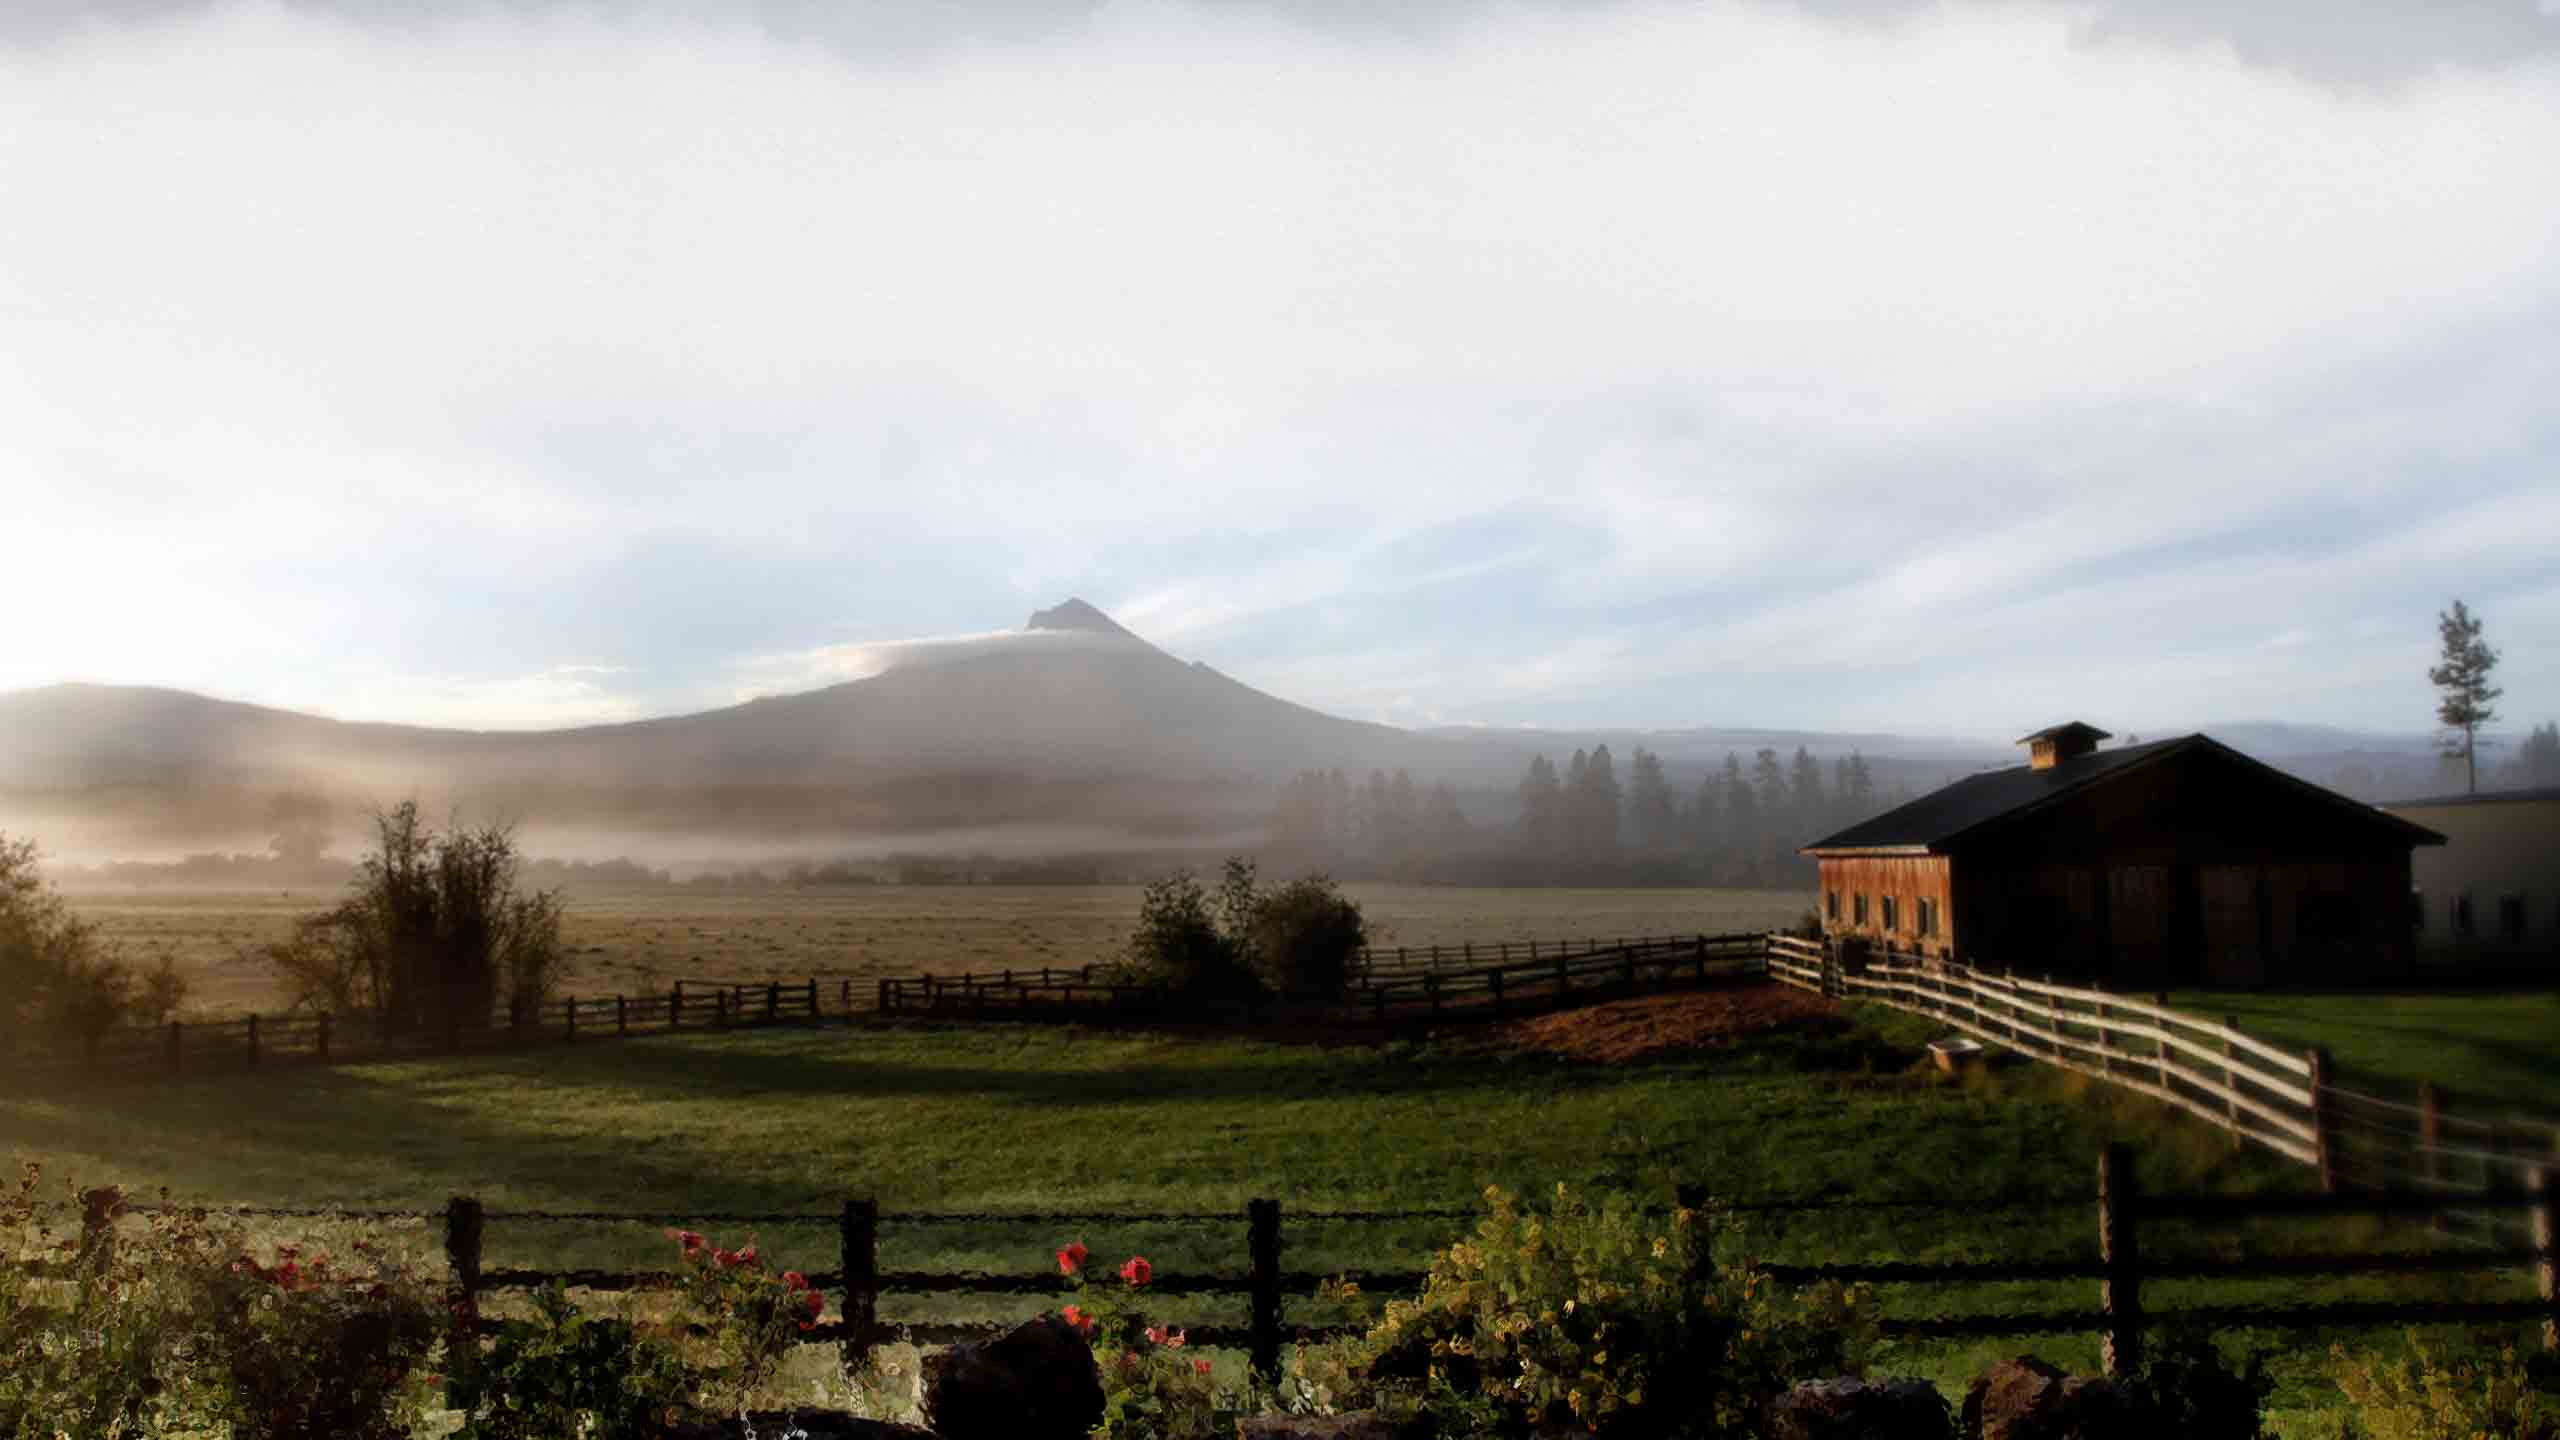
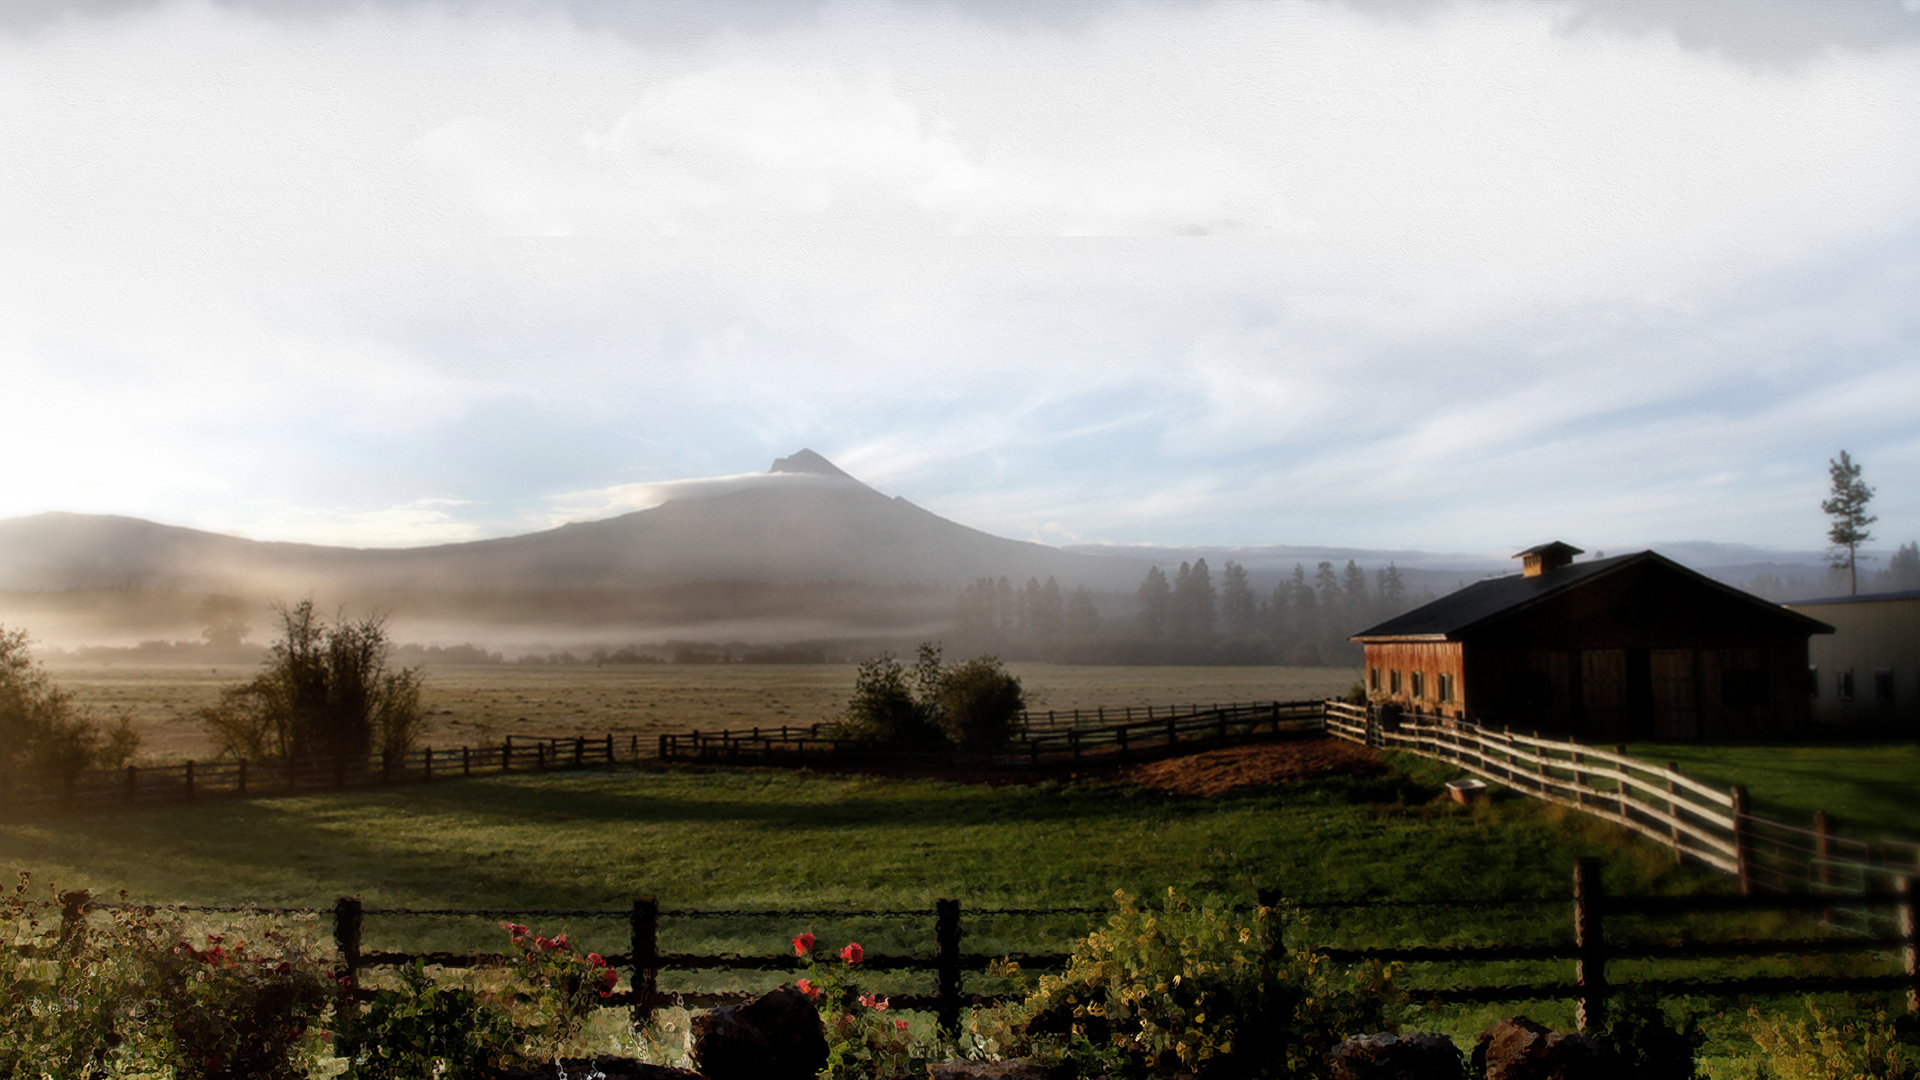
Paticka a pozadi

diff --git a/styles/style.min.css b/styles/style.min.css
@@ -1,2 +1,2 @@
-*{-webkit-box-sizing:border-box;-moz-box-sizing:border-box;box-sizing:border-box}html,body{width:100%}body{font-size:14px;margin:0;padding:0;text-align:center;background:url('../images/bg.jpg?1408087800') no-repeat center center}.is-envelope{width:1000px;height:100%;margin:0 auto;text-align:left;background-color:silver;position:relative;padding-top:160px}.footer .is-envelope{background:transparent;padding-top:0}.is-hide{display:none}.header{height:102px;position:relative}.logo{display:block;position:absolute;background-repeat:no-repeat;background-position:0 0}.header .logo{width:350px;height:77px;left:0;top:0}.footer .logo{width:145px;height:35px;left:0;bottom:6px;z-index:888}.logo__link{display:block;width:100%;height:100%;overflow:hidden;text-indent:-999px}.header .logo__link{background-image:url('../images/logo.png?1408087671')}.footer .logo__link{background-image:url('../images/logo-footer.png?1408090788')}.menu{width:100%;text-align:center}.menu:after{content:"";display:table;clear:both}.footer .menu{height:50px;position:absolute;bottom:0}.menu__item{display:inline-block;font-size:15px;text-transform:uppercase}.page .menu__item{margin-left:17px;margin-right:17px}.footer .menu__item{margin-left:14px;margin-right:14px;height:50px;line-height:50px}.menu__link{text-decoration:none}.page .menu__link{color:#3a5b6b}.footer .menu__link{color:white}h1,h2,h3,h4{margin:0;padding:0}p{margin:0;padding:0}a{color:inherit}ul{margin:0;padding:0;list-style:none}.contacts{display:none}.footer{margin-top:147px;height:91px;background:url('../images/bg-footer.png?1408091640') repeat-x 0 0}
+*{-webkit-box-sizing:border-box;-moz-box-sizing:border-box;box-sizing:border-box}html,body{width:100%}html{background:url('../images/bg.jpg?1408095200') no-repeat center 0}body{font-size:14px;margin:0;padding:0;text-align:center}.is-envelope{width:1320px;height:100%;margin:0 auto;text-align:left;background-color:silver;position:relative;padding-top:160px}.footer .is-envelope{background:transparent;padding-top:0}.is-hide{display:none}.header{height:102px;position:relative}.logo{display:block;position:absolute;background-repeat:no-repeat;background-position:0 0}.header .logo{width:350px;height:77px;left:0;top:0}.footer .logo{width:145px;height:35px;left:0;bottom:6px;z-index:888}.logo__link{display:block;width:100%;height:100%;overflow:hidden;text-indent:-999px}.header .logo__link{background-image:url('../images/logo.png?1408087671')}.footer .logo__link{background-image:url('../images/logo-footer.png?1408090788')}.menu{width:100%;text-align:center}.menu:after{content:"";display:table;clear:both}.footer .menu{height:50px;position:absolute;bottom:0}.menu__item{display:inline-block;font-size:15px;text-transform:uppercase}.page .menu__item{margin-left:17px;margin-right:17px}.footer .menu__item{margin-left:14px;margin-right:14px;height:50px;line-height:50px}.menu__link{text-decoration:none}.page .menu__link{color:#3a5b6b}.footer .menu__link{color:white}h1,h2,h3,h4{margin:0;padding:0}p{margin:0;padding:0}a{color:inherit}ul{margin:0;padding:0;list-style:none}.contacts{display:none}.footer{width:100%;height:91px;background:url('../images/bg-footer.png?1408091640') repeat-x 0 0;position:absolute;bottom:0}
 /*# sourceMappingURL=style.min.css.map */

diff --git a/styles/modules/_general.scss b/styles/modules/_general.scss
@@ -10,6 +10,7 @@ html, body{
 
 html{
     //min-width: 1024px; // ipad issue
+    background: image-url("bg.jpg") no-repeat center 0;
 }
 
 body{
@@ -17,11 +18,10 @@ body{
     margin: 0;
     padding: 0;
     text-align: center;
-    background: image-url("bg.jpg") no-repeat center center;
 }
 
 .is-envelope{
-    width: 1000px;
+    width: 1320px;
     height: 100%;
     margin: 0 auto;
     text-align: left;

diff --git a/styles/modules/_footer.scss b/styles/modules/_footer.scss
@@ -1,7 +1,9 @@
 .footer-small{}
 
 .footer{
-    margin-top: 147px;
+    width: 100%;
     height: 91px;
     background: image-url("bg-footer.png") repeat-x 0 0;
+    position: absolute;
+    bottom: 0;
 }
